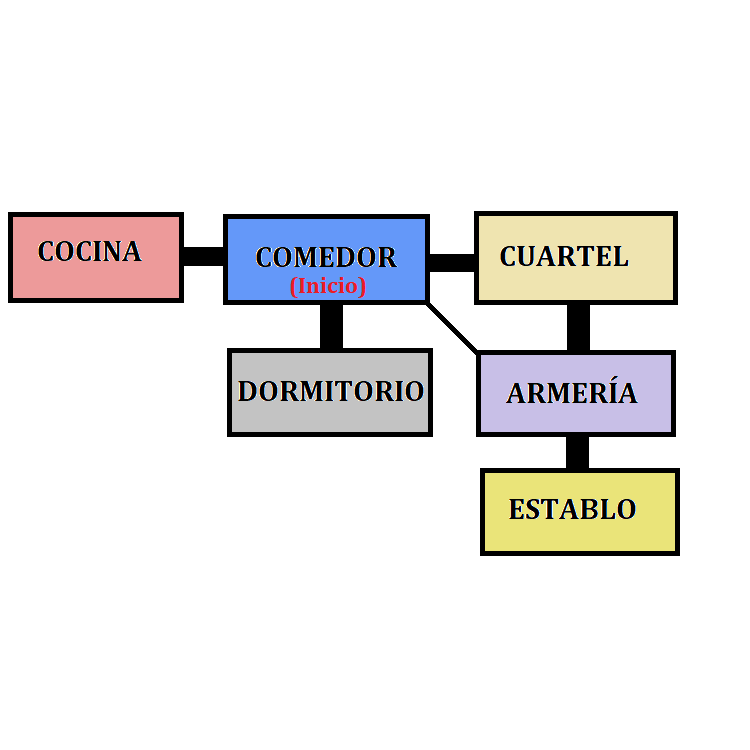
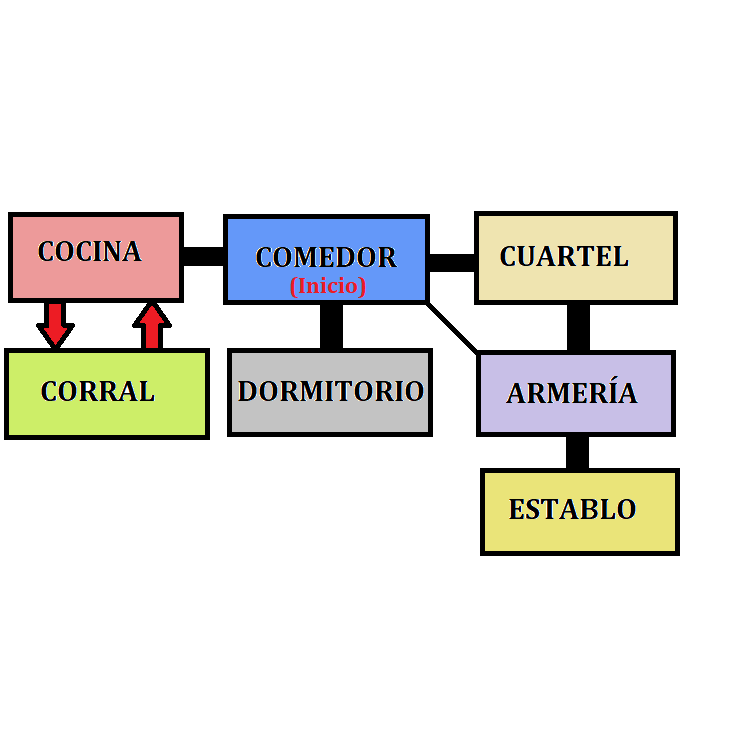
07. Adiccion de direcciones de salida arbitrarias

Changed region(s): [[0.0, 0.3987, 0.3067, 0.6133]]

diff --git a/Room.java b/Room.java
@@ -46,18 +46,7 @@ public class Room
      * @return La sala ubicada en la direccion especificada o null si no hay ninguna salida en esa direccion
      */
     public Room getExit(String salida) {
-        Room roomDevuelta = null;
-        if (salida.equals("north")) 
-            roomDevuelta = exits.get("northExit");
-        if (salida.equals("south")) 
-            roomDevuelta = exits.get("southExit");
-        if (salida.equals("east")) 
-            roomDevuelta = exits.get("eastExit");
-        if (salida.equals("west")) 
-            roomDevuelta = exits.get("westExit");
-        if (salida.equals("southEast")) 
-            roomDevuelta = exits.get("southEastExit");
-        return roomDevuelta;
+        return exits.get(salida);
     }
 
     /**
@@ -69,17 +58,10 @@ public class Room
      */
     public String getExitString() {
         String aDevolver = "Exits: ";
-        if(exits.get("northExit") != null)
-            aDevolver += "north ";
-        if(exits.get("eastExit") != null)
-            aDevolver += "east ";
-        if(exits.get("southExit") != null)
-            aDevolver += "south ";
-        if(exits.get("southEastExit") != null)
-            aDevolver += "southEast ";
-        if(exits.get("westExit") != null)
-            aDevolver += "west ";
- 
+        for (String descripcion : exits.keySet()) {
+            aDevolver += descripcion + " ";
+        }
+
         return aDevolver;
     }
 
@@ -90,17 +72,7 @@ public class Room
      * @param sala La sala que se encuentra en la direccion indicada
      */
     public void setExit(String direccion, Room sala) {
-        if(direccion.equals("north"))
-            exits.put("northExit" ,sala);
-        else if(direccion.equals("east"))
-            exits.put("eastExit" ,sala);
-        else if(direccion.equals("south"))
-            exits.put("southExit" ,sala);
-        else if(direccion.equals("west"))
-            exits.put("westExit" ,sala);
-        else if(direccion.equals("southEast"))
-            exits.put("southEastExit" ,sala);
-
+        exits.put(direccion, sala);
     }
 
 }
